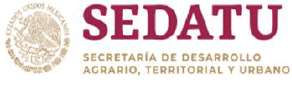
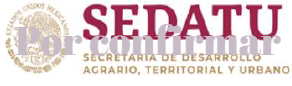
se agrega marca de agua para las instituciones por confirmar

Changed region(s): [[0.0308, 0.2791, 0.9863, 0.6512]]

diff --git a/websimposio2020/core/templates/core/semblanzaGPA.html b/websimposio2020/core/templates/core/semblanzaGPA.html
@@ -31,7 +31,7 @@
 			<div class="row">
 				<div class="col-lg-5 col-md-6 align-self-md-center">
 					<div class="image-block">
-						<img src="{% static 'core/images/speakers/GPA.jpg'%}" class="img-fluid" alt="speaker">
+						<img src="{% static 'core/images/speakers/GPA.png'%}" class="img-fluid" alt="speaker">
 					</div>
 				</div>
 				<div class="col-lg-7 col-md-6 align-self-center">

diff --git a/websimposio2020/core/templates/core/patrocinadores.html b/websimposio2020/core/templates/core/patrocinadores.html
@@ -130,6 +130,7 @@
 							</div>
 						</li>
 						<li class="list-inline-item">
+							por confirmar
 							<div class="image-block text-center">
 								<a href="#">
 									<img src="{% static 'core/images/sponsors/pemex.png'%}" alt="" class="img-fluid">

diff --git a/websimposio2020/core/templates/core/acerca.html b/websimposio2020/core/templates/core/acerca.html
@@ -1,5 +1,5 @@
 {%extends 'core/base.html'%}
-{%block title%}Portada{%endblock%}
+{%block title%}Acerca de nosotros{%endblock%}
 {%block content%}
 {%load static %}
 <!--================================
